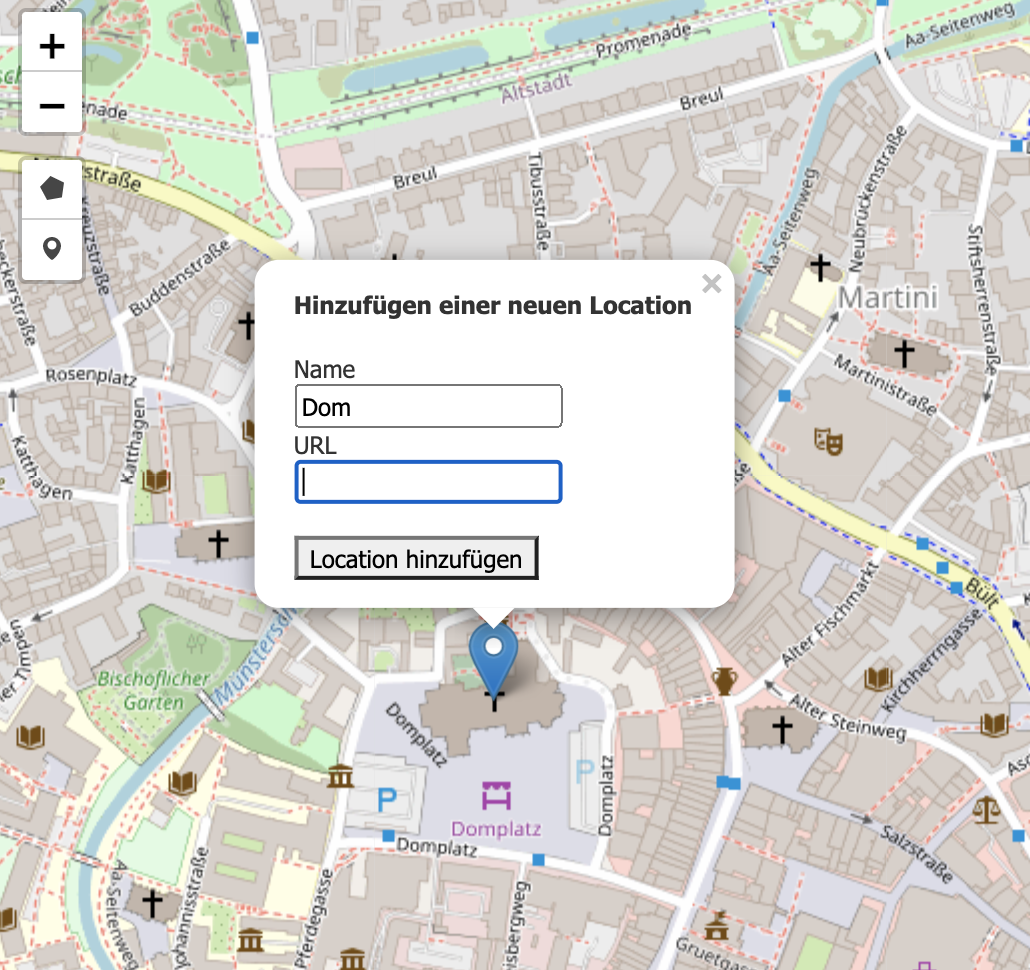
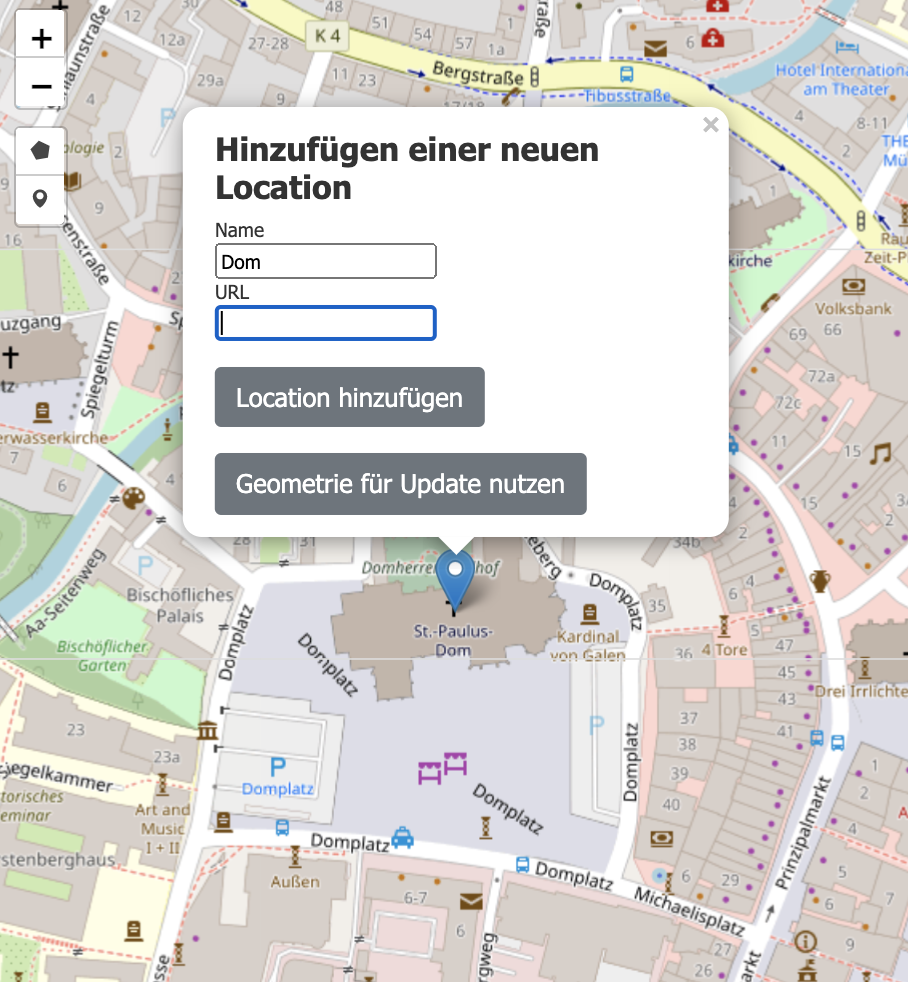
design

diff --git a/public/js/editor.js b/public/js/editor.js
@@ -46,13 +46,13 @@ map.on('draw:created', function(e) {
     currentLayer = e.layer;
     locationLayer.addLayer(e.layer); //add new Object to the locationLayer
     e.layer.bindPopup( //bind a popup to the newly created "location"
-            '<b>Hinzufügen einer neuen Location</b><br><br>'
+            '<h5><b>Hinzufügen einer neuen Location</b></h5>'
             + '<label for="pname">Name</label><br>'
             + '<input type="text" id="pname" name="pname"><br>' 
             + '<label for="purl">URL</label><br>'
-            + '<input type="text" id="purl" name="purl">'
-            + '<button type="button" class="btn btn-dark" onclick="passLocationToAddForm()">Location hinzufügen</button> ' 
-            + '<button type="button" class="btn btn-dark" onclick="useGeometryForUpdate(newGeoJSON)">Geometrie für Update nutzen</button> '
+            + '<input type="text" id="purl" name="purl"><br><br>'
+            + '<button type="button" class="btn btn-secondary" onclick="passLocationToAddForm()">Location hinzufügen</button><br><br>' 
+            + '<button type="button" class="btn btn-secondary" onclick="useGeometryForUpdate(newGeoJSON)">Geometrie für Update nutzen</button> '
         ).openPopup([e.layer._latlngs[0][0].lat, e.layer._latlngs[0][0].lng]); //open the popup
 
         var geometry = []; //initinalize Array for the Verticies of the Polygon
@@ -71,13 +71,13 @@ map.on('draw:created', function(e) {
         currentLayer = e.layer;
         locationLayer.addLayer(e.layer); //add new Object to the locationLayer
         e.layer.bindPopup( //bind a popup to the newly created "location"
-            '<b>Hinzufügen einer neuen Location</b><br><br>'
+            '<h5><b>Hinzufügen einer neuen Location</b></h5>'
             + '<label for="pname">Name</label><br>'
             + '<input type="text" id="pname" name="pname"><br>'
             + '<label for="purl">URL</label><br>'
-            + '<input type="text" id="purl" name="purl">'
-            + '<button type="button" class="btn btn-dark" onclick="passLocationToAddForm()">Location hinzufügen</button> '
-            + '<button type="button" class="btn btn-dark" onclick="useGeometryForUpdate(newGeoJSON)">Geometrie für Update nutzen</button> '
+            + '<input type="text" id="purl" name="purl"><br><br>'
+            + '<button type="button" class="btn btn-secondary" onclick="passLocationToAddForm()">Location hinzufügen</button><br><br>'
+            + '<button type="button" class="btn btn-secondary" onclick="useGeometryForUpdate(newGeoJSON)">Geometrie für Update nutzen</button> '
         ).openPopup([e.layer._latlng.lat, e.layer._latlng.lng]); //open the popup
         var geometry; //initinalize Point
         //get the Point
@@ -140,7 +140,7 @@ function getAllfromDB() {
                                 + '<b>' + "URL: " + '</b>' + locations[i].GeoJson.features[0].properties.URL + '<br><br>' 
                                 + '<b>' +  "Beschreibung: " + '</b>' + locations[i].GeoJson.features[0].properties.Description
                 + '<input type="hidden" id="selectedLocationID" name="selectedLocationID" value= "' + locations[i].locationID + '">' 
-                + '<br></br><button onclick="passLocationToDeleteForm()">Location löschen</button>');
+                + '<br></br><button class="btn btn-secondary" onclick="passLocationToDeleteForm()">Location löschen</button>');
             }
             map.fitBounds(locationLayer.getBounds()); //fit bounds to locations layer
 

diff --git a/public/landing.html b/public/landing.html
@@ -56,9 +56,9 @@
                     </div>
                     <div class="col-md-4">
                         <div class="card mb-4 box-shadow">
-                            <!--<img class="card-img-top" src="./gfx/weather.png" alt="weather.png">-->
+                            <img class="card-img-top" src="./gfx/map.png" alt="map.png">
                             <div class="card-body"> 
-                                <p class="card-text"><b>Schneiden Sie </b>ein beliebiges <b>Polygon mit einer</b> von Ihnen bestimmten <b>Route </b>und erhalten Sie die aktuellsten Wetterdaten an den Schnittpunkten!</p>
+                                <p class="card-text"><b>Betrachten</b> Sie die eingegebenen <b>Sehenswürdigkeiten und Routen</b> auf einer Karte, um die <b>nächstgelegene Bushaltestelle</b> und das <b>jeweilige Wetter</b> ausgeben zu lassen.</p>
                                 <div class="d-flex justify-content-between align-items-center">
                                     <div class="btn-group">
                                         <a href="./map.html" class="btn btn-sm btn-outline-secondary">Öffnen</a>
